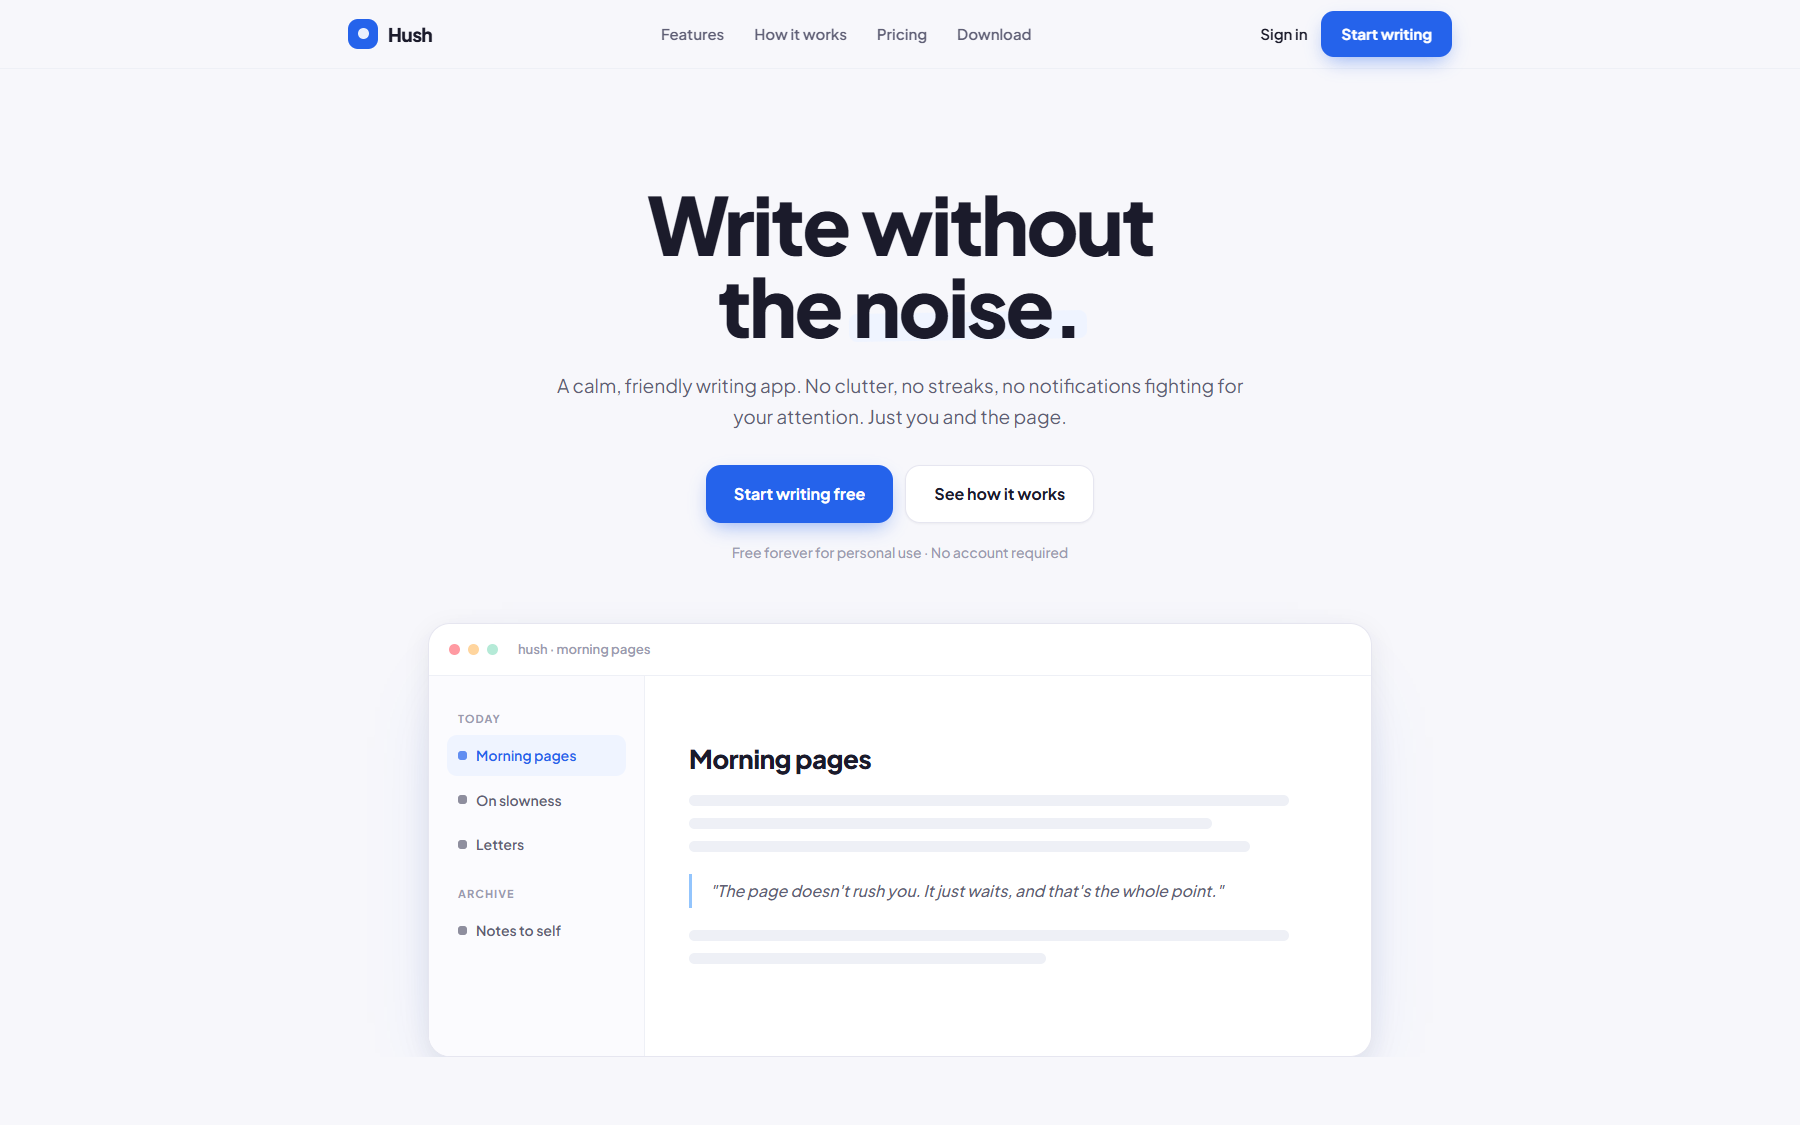
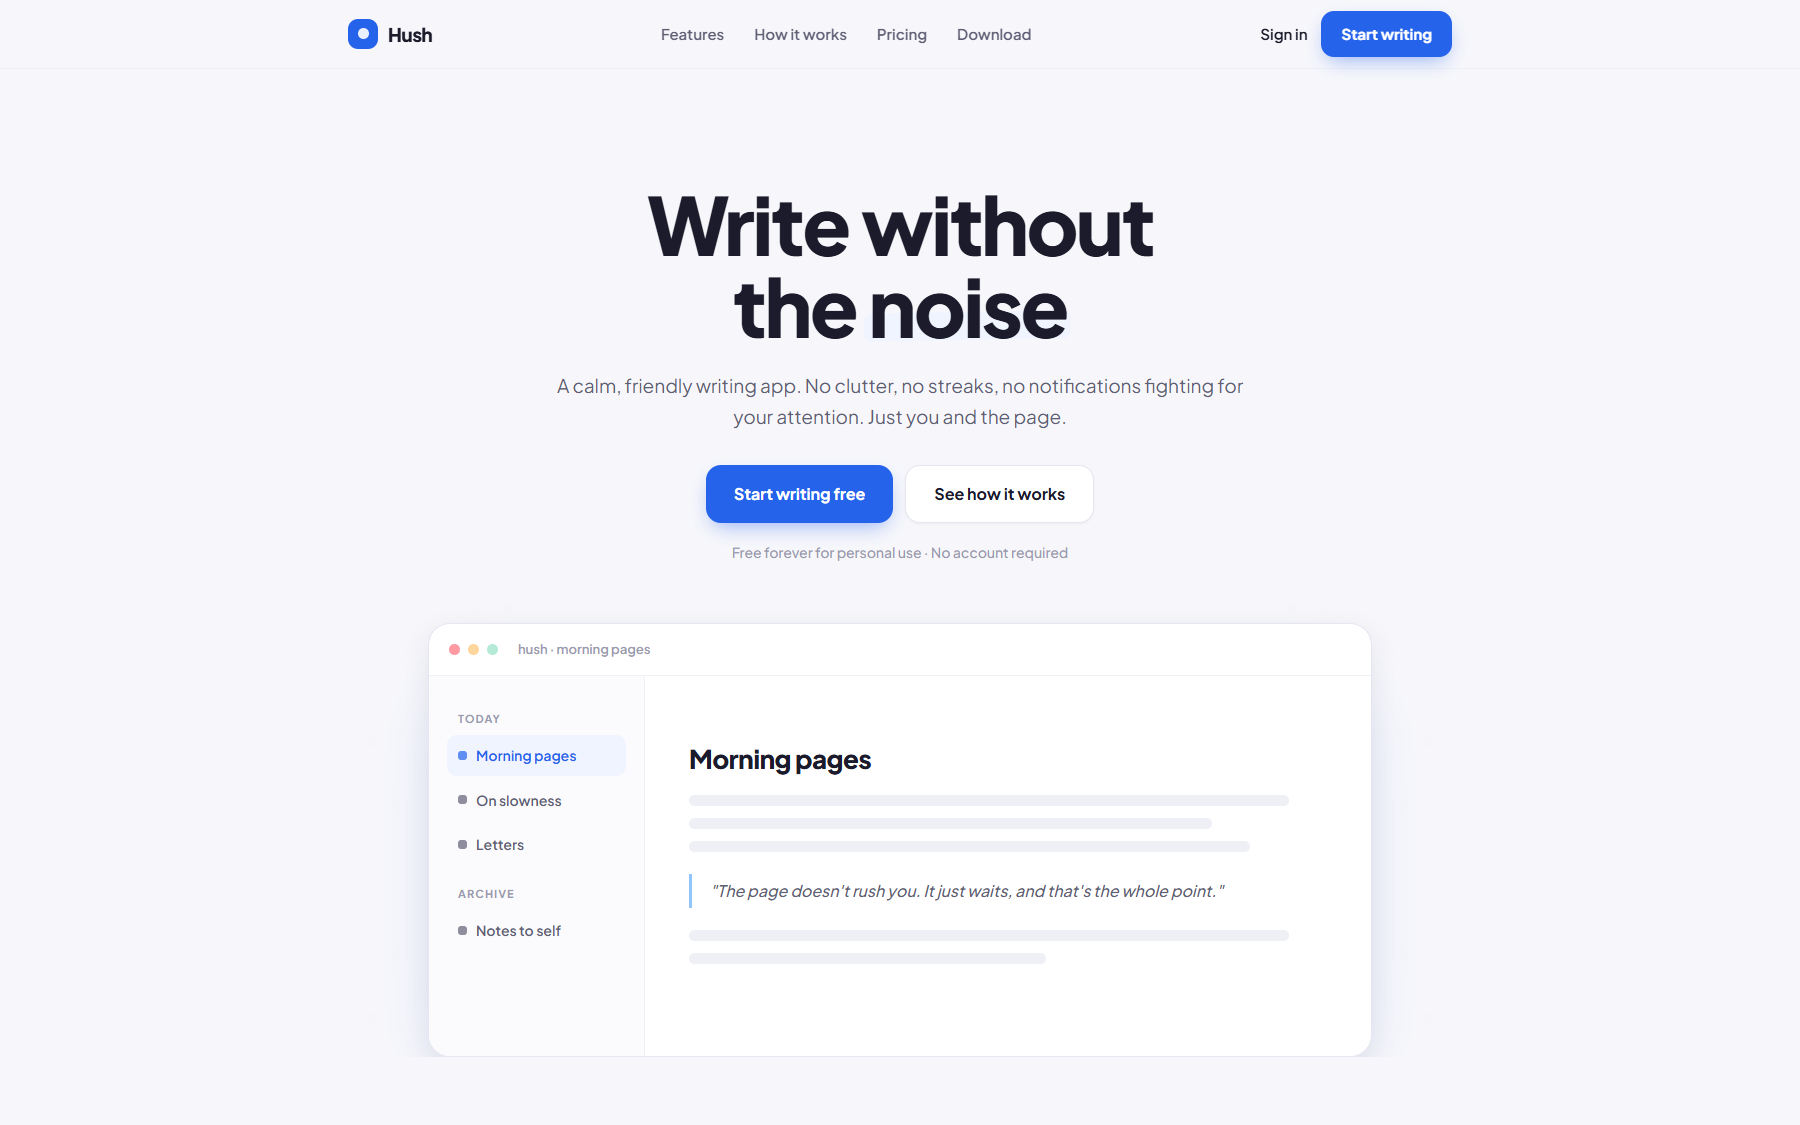
Remove trailing periods from all headings; add rule to style guide

Changed region(s): [[0.4044, 0.2489, 0.5911, 0.3111]]

diff --git a/templates/relay.html b/templates/relay.html
@@ -200,7 +200,7 @@
   <div class="wrap hero__wrap">
     <div>
       <div class="hero__grid">
-        <h1>Ship software<br><span class="outline">on schedule.</span></h1>
+        <h1>Ship software<br><span class="outline">on schedule</span></h1>
       </div>
       <div class="hero__side">
         <p>Relay turns a messy roadmap into a shipping cadence your whole team can see. Plan, build, and release in one board.</p>
@@ -228,7 +228,7 @@
 <section id="features">
   <div class="wrap">
     <p class="label">Capabilities</p>
-    <h2 class="sec">Everything you need to ship, and nothing that gets in the way.</h2>
+    <h2 class="sec">Everything you need to ship, and nothing that gets in the way</h2>
     <div class="feats">
       <div class="feat"><div class="n">01</div><h3>One board, every team</h3><p>Product, design and engineering see the same plan. No more three versions of the truth.</p></div>
       <div class="feat"><div class="n">02</div><h3>Release trains</h3><p>Group work into a cadence. Relay warns you early when a train is about to leave late.</p></div>
@@ -245,12 +245,12 @@
   <div class="wrap">
     <div class="split">
       <div class="split__l">
-        <h3>Built for teams that ship daily.</h3>
+        <h3>Built for teams that ship daily</h3>
         <p>Relay is opinionated about one thing: momentum. It surfaces what's blocked, who's waiting, and what ships this week, without a meeting.</p>
         <p style="margin-top:14px">Set a cadence once. Relay keeps every train on the rails and tells you the moment one slips.</p>
       </div>
       <div class="split__r">
-        <h3>Automate the boring parts.</h3>
+        <h3>Automate the boring parts</h3>
         <p>Wire up a release and let Relay handle the rest.</p>
         <div class="code">
 <span class="c"># ship a release train</span><br>
@@ -268,7 +268,7 @@
 <section id="how" style="padding-top:0">
   <div class="wrap">
     <p class="label">How it works</p>
-    <h2 class="sec">Three steps to a calmer release.</h2>
+    <h2 class="sec">Three steps to a calmer release</h2>
     <div class="steps">
       <div class="step"><div class="n">01</div><h3>Connect your repo</h3><p>Point Relay at GitHub or GitLab. It reads your issues and PRs, no manual entry.</p></div>
       <div class="step"><div class="n">02</div><h3>Set a cadence</h3><p>Weekly, fortnightly, whenever. Relay groups work into trains and tracks them.</p></div>
@@ -281,7 +281,7 @@
 <section id="pricing" style="padding-top:0">
   <div class="wrap">
     <p class="label">Pricing</p>
-    <h2 class="sec">Simple, per-seat, no surprises.</h2>
+    <h2 class="sec">Simple, per-seat, no surprises</h2>
     <div class="plans">
       <div class="plan">
         <h3>Starter</h3>
@@ -325,7 +325,7 @@
 <section style="padding-top:0">
   <div class="wrap">
     <p class="label">Questions</p>
-    <h2 class="sec">Things people ask.</h2>
+    <h2 class="sec">Things people ask</h2>
     <div class="faq">
       <details open><summary>Does Relay replace Jira or Linear?</summary><p>No. It connects to them. Relay is the shipping layer on top: it reads your issues and PRs and organises them into a cadence. Keep the tools your team already uses.</p></details>
       <details><summary>What does "release train" actually mean?</summary><p>A train is a batch of work scheduled to ship together on a fixed date. Relay watches the train and warns you when it's likely to leave late.</p></details>
@@ -338,7 +338,7 @@
 <!-- CTA -->
 <section class="cta">
   <div class="wrap">
-    <h2>Stop guessing.<br><span>Start shipping.</span></h2>
+    <h2>Stop guessing.<br><span>Start shipping</span></h2>
     <p>Set up in ten minutes. Free for solo makers, per-seat when your team grows.</p>
     <a href="#" class="btn btn--lg">Start free</a>
   </div>

diff --git a/templates/rubic.html b/templates/rubic.html
@@ -180,7 +180,7 @@
 <div class="hero">
   <div class="wrap hero-grid">
     <div>
-      <h1 class="serif">Rubik's cube<br>for the web.</h1>
+      <h1 class="serif">Rubik's cube<br>for the web</h1>
       <p class="lede">A real 3D cube you can twist, scramble and solve, right in your browser. No installs, no plugins. Just you and the cube.</p>
       <div class="hero-cta">
         <a href="#" class="pill" style="padding:11px 20px">Play now</a>
@@ -196,7 +196,7 @@
   <div class="wrap split">
     <div>
       <p class="eyebrow">Start in seconds</p>
-      <h2 class="serif">Load the page. The cube is already turning.</h2>
+      <h2 class="serif">Load the page. The cube is already turning</h2>
       <p class="muted" style="margin-top:16px;max-width:46ch">No setup, no tutorial wall. Open RUBIC and you're looking at a real, physical-feeling cube, lit, weighted and smooth at 60fps on the web.</p>
       <div class="code" style="margin-top:28px">
         <div class="top"><i></i><i></i><i></i></div>
@@ -237,7 +237,7 @@ cube.<span class="f">on</span>(<span class="s">'solve'</span>, ({ moves, ms }) =
   <div class="wrap">
     <div class="sec-head">
       <p class="eyebrow">Everything in your control</p>
-      <h2 class="serif">Small toolset. Nothing you have to learn.</h2>
+      <h2 class="serif">Small toolset. Nothing you have to learn</h2>
     </div>
     <div class="grid3">
       <div class="card"><div class="ic"><svg viewBox="0 0 24 24" width="22" height="22" fill="none" stroke="currentColor" stroke-width="1.8" stroke-linecap="round" stroke-linejoin="round"><rect x="2" y="6" width="20" height="12" rx="2"/><path d="M6 10h.01M10 10h.01M14 10h.01M18 10h.01M8 14h8"/></svg></div><h3>Keyboard &amp; touch</h3><p>Notation shortcuts for speedcubers, drag gestures for everyone else. Both, at once.</p></div>
@@ -265,7 +265,7 @@ cube.<span class="f">on</span>(<span class="s">'solve'</span>, ({ moves, ms }) =
     </div>
     <div>
       <p class="eyebrow">Race the clock</p>
-      <h2 class="serif">Every solve counts. Every second shows.</h2>
+      <h2 class="serif">Every solve counts. Every second shows</h2>
       <p class="muted" style="margin-top:16px;max-width:46ch">Daily scrambles are the same for everyone. Solve, submit, and watch yourself climb. No gimmicks, just a fair, shared clock and a leaderboard that updates live.</p>
     </div>
   </div>
@@ -300,7 +300,7 @@ cube.<span class="f">on</span>(<span class="s">'solve'</span>, ({ moves, ms }) =
 <!-- CTA -->
 <div class="cta">
   <div class="wrap">
-    <h2 class="serif">The cube is waiting.</h2>
+    <h2 class="serif">The cube is waiting</h2>
     <p>Open it in your browser and start turning. Free, offline, no account.</p>
     <a href="#" class="pill" style="padding:12px 22px">Play now</a>
   </div>

diff --git a/templates/hush.html b/templates/hush.html
@@ -204,7 +204,7 @@
 <section class="hero">
   <div class="blob b1"></div><div class="blob b2"></div><div class="blob b3"></div>
   <div class="wrap hero__in">
-    <h1>Write without<br>the <span class="hl">noise.</span></h1>
+    <h1>Write without<br>the <span class="hl">noise</span></h1>
     <p class="lede">A calm place to think on the page. No toolbars, no notifications, no streak you're afraid to break, just you and the words.</p>
     <div class="hero__cta">
       <a href="#" class="btn btn--primary btn--lg">Start writing free</a>
@@ -247,7 +247,7 @@
   <div class="wrap">
     <div class="head center">
       <span class="eyebrow">Features</span>
-      <h2>Everything you need. Nothing that nags.</h2>
+      <h2>Everything you need. Nothing that nags</h2>
       <p>Hush does a handful of things, and does them quietly. No dashboards, no engagement tricks.</p>
     </div>
     <div class="cards">
@@ -266,7 +266,7 @@
   <div class="wrap">
     <div class="head center">
       <span class="eyebrow">How it works</span>
-      <h2>Open. Write. Done.</h2>
+      <h2>Open. Write. Done</h2>
     </div>
     <div class="steps">
       <div class="step"><div class="step__n">1</div><h3>Open a page</h3><p>Hit the shortcut and Hush takes the screen. A blank page, centered, waiting.</p></div>
@@ -281,7 +281,7 @@
   <div class="wrap panel">
     <div class="txt">
       <span class="eyebrow">Made for focus</span>
-      <h2>A writing app that gets out of the way.</h2>
+      <h2>A writing app that gets out of the way</h2>
       <p>Most tools compete for your attention. Hush gives it back. The interface disappears the moment you start typing, and reappears only when you ask.</p>
       <ul class="checks">
         <li><span class="tick"><svg viewBox="0 0 24 24" width="16" height="16" fill="none" stroke="currentColor" stroke-width="1.8" stroke-linecap="round" stroke-linejoin="round"><polyline points="20 6 9 17 4 12"/></svg></span> Distraction-free full-screen mode</li>
@@ -316,7 +316,7 @@
 <section class="cta">
   <div class="wrap">
     <div class="cta__box">
-      <h2>Next time, just write.</h2>
+      <h2>Next time, just write</h2>
       <p>Free for Mac, iPad and the web. No account, no card, no clutter.</p>
       <a href="#" class="btn btn--lg">Start writing free</a>
     </div>

diff --git a/templates/lumen.html b/templates/lumen.html
@@ -120,7 +120,7 @@
 <section class="hero">
   <div class="container hero__grid">
     <div>
-      <h1 class="display text-5xl">A landing kit<br>that stays <em>quiet.</em></h1>
+      <h1 class="display text-5xl">A landing kit<br>that stays <em>quiet</em></h1>
       <p class="lede">Editorial typography, a disciplined token system, and no visual noise. Change one file and every page re-themes.</p>
       <div class="hero__cta">
         <a href="#" class="btn btn--primary btn--lg">Get the kit</a>
@@ -155,7 +155,7 @@
   <div class="container">
     <div class="head" data-reveal>
       <p class="eyebrow">Built to compose</p>
-      <h2 class="display text-3xl">Small pieces. Nothing to untangle.</h2>
+      <h2 class="display text-3xl">Small pieces. Nothing to untangle</h2>
       <p>Every block is a component. Drop in what you need, leave out what you don't.</p>
     </div>
     <div class="features">
@@ -174,7 +174,7 @@
   <div class="container">
     <div class="head" data-reveal>
       <p class="eyebrow">How it works</p>
-      <h2 class="display text-3xl">Three steps, then it's yours.</h2>
+      <h2 class="display text-3xl">Three steps, then it's yours</h2>
     </div>
     <div class="steps">
       <div class="step" data-reveal><div class="step__num">01</div><div><h3>Drop in the files</h3><p>Copy the folder to any host. There is no compile step and no dependencies to install.</p></div></div>
@@ -223,7 +223,7 @@
 <!-- CTA -->
 <section class="section cta-band">
   <div class="container">
-    <h2 class="display text-4xl">Start with a quiet page.</h2>
+    <h2 class="display text-4xl">Start with a quiet page</h2>
     <p>Six pages, one token file, no build step. Get the kit and make it yours.</p>
     <a href="#" class="btn btn--primary btn--lg">Get the kit</a>
   </div>

diff --git a/templates/nova.html b/templates/nova.html
@@ -189,7 +189,7 @@
     <div class="streak s3"></div>
   </div>
   <div class="wrap hero__inner">
-    <h1>The AI that<br>ships <span class="grad">with you.</span></h1>
+    <h1>The AI that<br>ships <span class="grad">with you</span></h1>
     <p class="lede">Nova reads your codebase, runs the tests, and opens the pull request. You stay in flow, it handles the rest.</p>
     <div class="hero__cta">
       <a href="#" class="btn btn--glow btn--lg">Start for free</a>
@@ -233,7 +233,7 @@
   <div class="wrap">
     <div class="head">
       <p class="eyebrow">Capabilities</p>
-      <h2>Everything an agent needs. Nothing it doesn't.</h2>
+      <h2>Everything an agent needs. Nothing it doesn't</h2>
       <p>Nova is built for real repositories: messy history, failing CI, opinions included.</p>
     </div>
     <div class="feat">
@@ -252,7 +252,7 @@
   <div class="wrap">
     <div class="head">
       <p class="eyebrow">How it works</p>
-      <h2>Three steps from issue to pull request.</h2>
+      <h2>Three steps from issue to pull request</h2>
     </div>
     <div class="steps">
       <div class="step"><div class="step__n">01</div><div><h3>Point it at a task</h3><p>Describe the change in plain language, or link the issue. Nova pulls the context it needs.</p></div></div>
@@ -290,7 +290,7 @@
 <section class="cta">
   <div class="spot2"></div>
   <div class="wrap">
-    <h2>Ship the next one with Nova.</h2>
+    <h2>Ship the next one with Nova</h2>
     <p>Free to start. No card, no lock-in. Install in under a minute.</p>
     <a href="#" class="btn btn--glow btn--lg">Start for free</a>
   </div>

diff --git a/templates/hero-lumen.html b/templates/hero-lumen.html
@@ -138,7 +138,7 @@
 <section class="hero">
   <div class="container hero__grid">
     <div>
-      <h1 class="display">A landing kit<br>that stays <em>quiet.</em></h1>
+      <h1 class="display">A landing kit<br>that stays <em>quiet</em></h1>
       <p class="lede">Editorial typography, a disciplined token system, and no visual noise. Change one file and every page re-themes.</p>
       <div class="hero__cta">
         <a href="#" class="btn btn--primary btn--lg">Get the kit</a>

diff --git a/templates/hero-nova.html b/templates/hero-nova.html
@@ -112,7 +112,7 @@
 
 <section class="hero" style="padding-bottom:0">
   <div class="wrap hero__inner">
-    <h1>The AI that<br>ships <span class="grad">with you.</span></h1>
+    <h1>The AI that<br>ships <span class="grad">with you</span></h1>
     <p class="lede">Nova reads your codebase, runs the tests, and opens the pull request. You stay in flow, it handles the rest.</p>
     <div class="hero__cta">
       <a href="#" class="btn btn--blue btn--lg">Start for free</a>

diff --git a/templates/hero-hush.html b/templates/hero-hush.html
@@ -95,7 +95,7 @@
 
 <section class="hero">
   <div class="wrap hero__in">
-    <h1>Write without<br>the <span class="hl">noise.</span></h1>
+    <h1>Write without<br>the <span class="hl">noise</span></h1>
     <p class="lede">A calm, friendly writing app. No clutter, no streaks, no notifications fighting for your attention. Just you and the page.</p>
     <div class="hero__cta">
       <a href="#" class="btn btn--primary btn--lg">Start writing free</a>

diff --git a/templates/hero-relay.html b/templates/hero-relay.html
@@ -112,7 +112,7 @@
   <div class="wrap hero__wrap">
     <div>
       <div class="hero__grid">
-        <h1>Ship software<br><span class="outline">on schedule.</span></h1>
+        <h1>Ship software<br><span class="outline">on schedule</span></h1>
       </div>
       <div class="hero__side">
         <p>Relay turns a messy roadmap into a shipping cadence your whole team can see. Plan, build, and release in one board.</p>

diff --git a/templates/pricing-relay.html b/templates/pricing-relay.html
@@ -79,7 +79,7 @@
 <section id="pricing">
   <div class="wrap">
     <p class="label">Pricing</p>
-    <h2 class="sec">Simple, per-seat, no surprises.</h2>
+    <h2 class="sec">Simple, per-seat, no surprises</h2>
     <p class="lede">Start free for solo work. Pay per seat only when your team grows, cancel any time, no contracts.</p>
 
     <div class="plans">

diff --git a/TEMPLATE-STYLE.md b/TEMPLATE-STYLE.md
@@ -70,6 +70,21 @@ Use an inline **SVG icon** instead. Keep only functional text arrows: right arro
 
 Also strip emoji from data files (`templates.json` collection icons) and decorative `.ico` / `.ic` slots.
 
+### 6. No trailing period in headings
+Headlines and section titles (h1/h2/h3) must not end with a period. Drop the full stop.
+
+```html
+<!-- BAD -->
+<h1>Ship software on schedule.</h1>
+<h2>Simple, per-seat, no surprises.</h2>
+
+<!-- GOOD -->
+<h1>Ship software on schedule</h1>
+<h2>Simple, per-seat, no surprises</h2>
+```
+
+Periods inside a sentence are fine (e.g. "Open. Write. Done."); only the final full stop is removed.
+
 ## Do use
 
 - One accent colour, solid fills.
